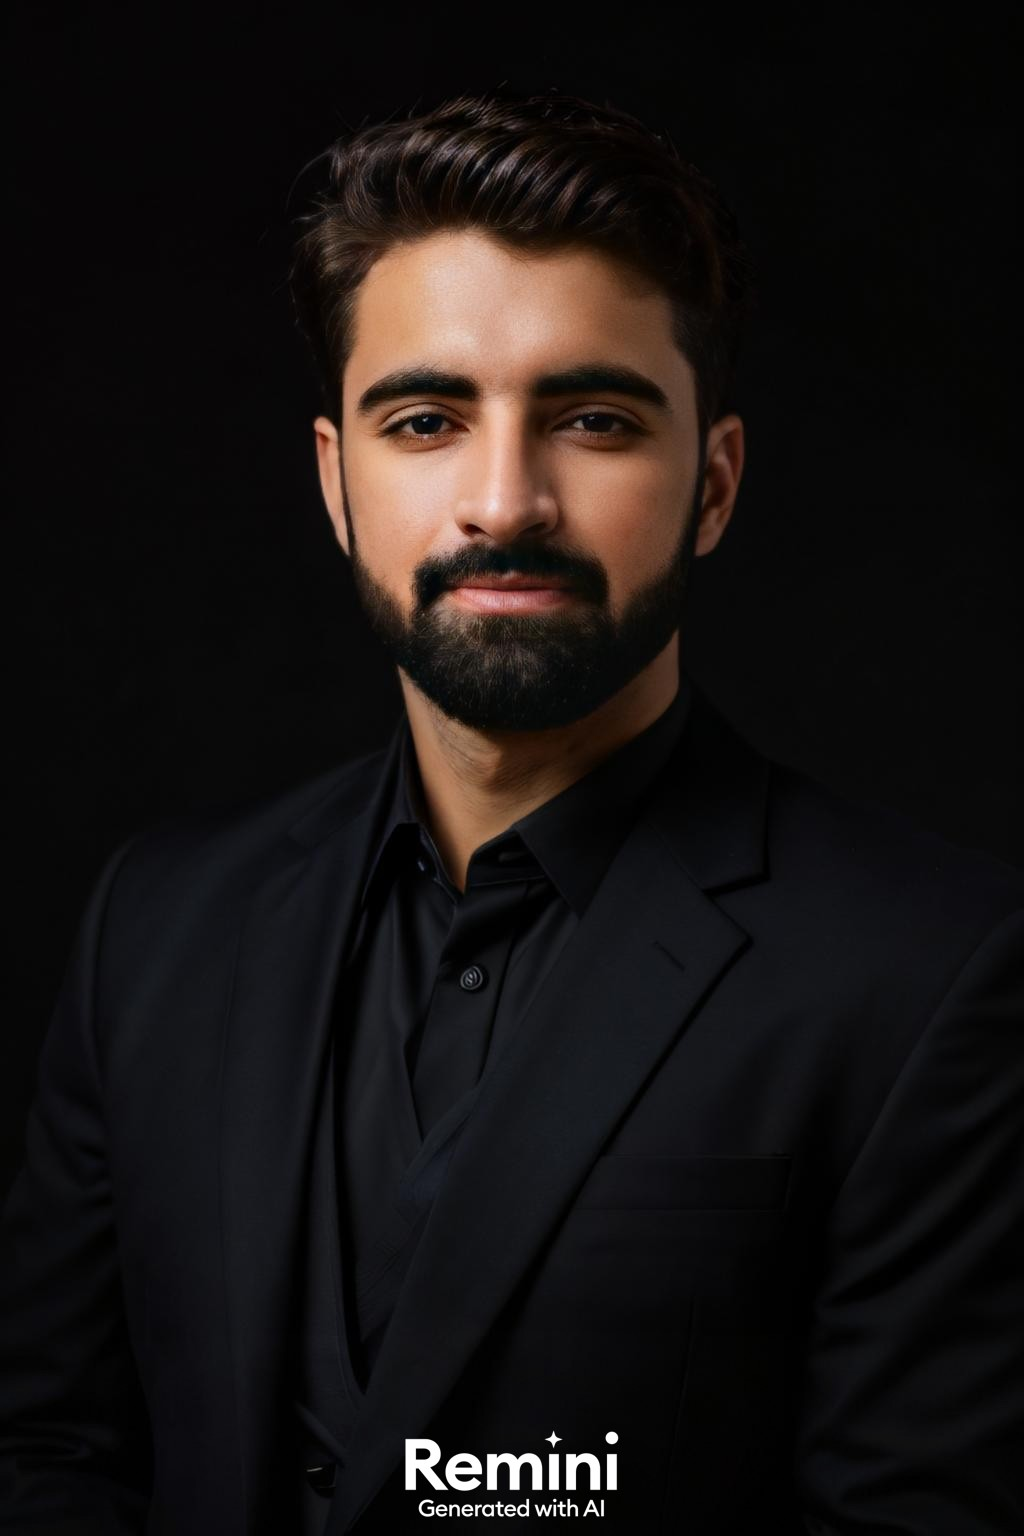
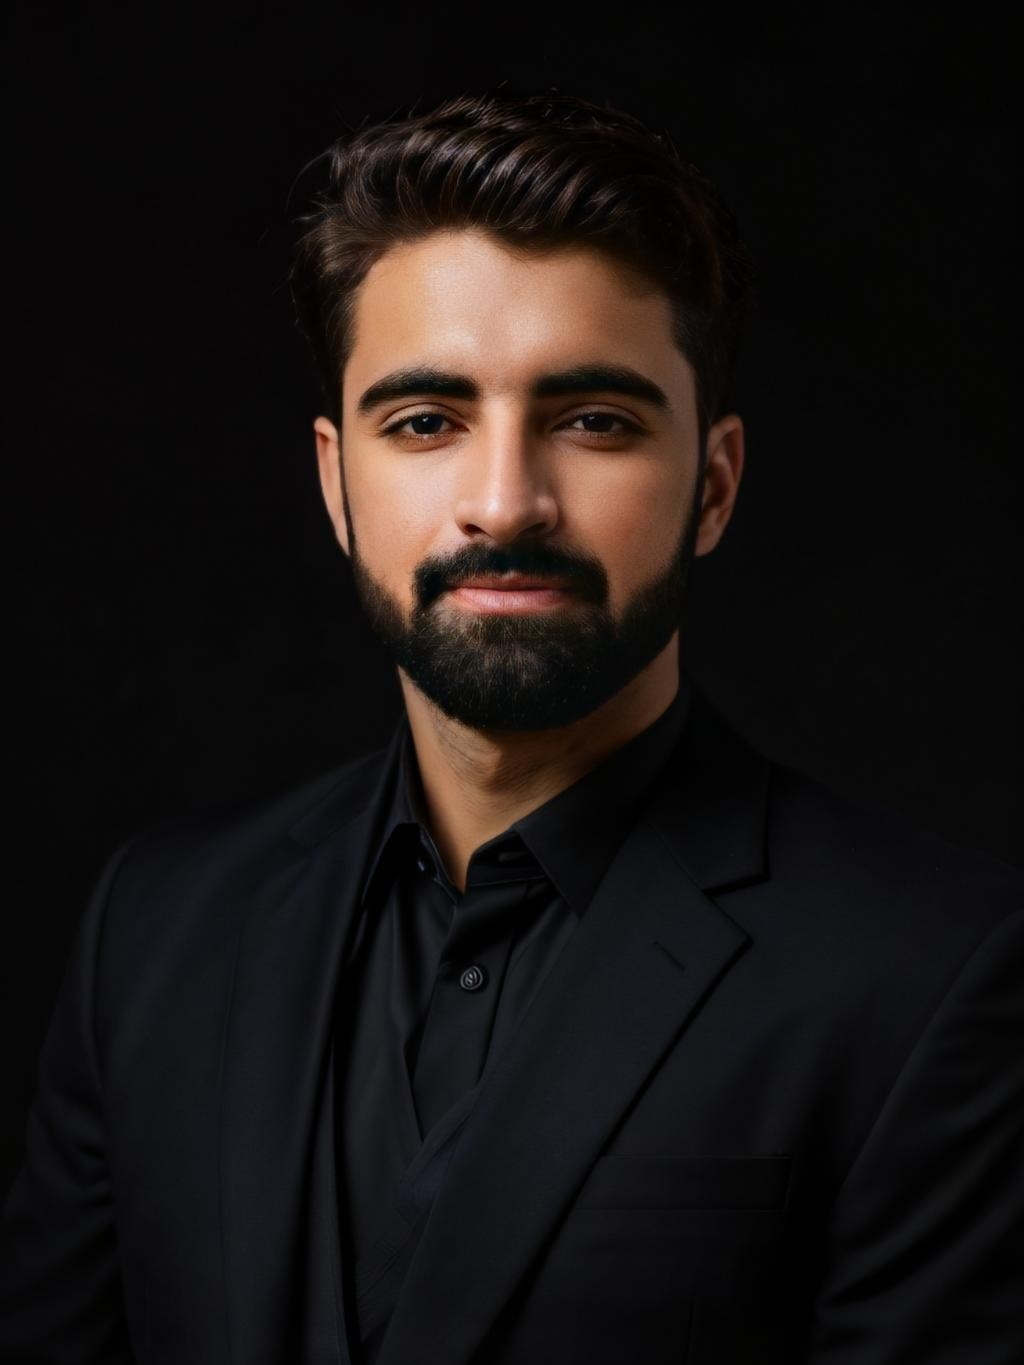
data updates

diff --git a/app/work/page.jsx b/app/work/page.jsx
@@ -79,7 +79,7 @@ const projects = [
       { name: "Node.js" },
       { name: "Express" },
       { name: "MongoDB" },
-      { name: "Material-UI" }
+      { name: "MUI" }
     ],
     image: "/assets/work/thumb5.png",  // You can replace this with the actual image URL
     live: "",
@@ -122,14 +122,14 @@ const Work = () => {
               <div className="flex items-center gap-4">
                 <Link href={project.live}>
                   <TooltipProvider delayDuration={100}>
-                    <Tooltip>
+                    {/* <Tooltip>
                       <TooltipTrigger className="w-[70px] h-[70px] rounded-full bg-white/5 flex justify-center items-center group">
                         <BsArrowUpRight className="text-wite text-3xl group-hover:text-accent"/> 
                       </TooltipTrigger>
                       <TooltipContent>
                         <p>Live project</p>
                       </TooltipContent>
-                    </Tooltip>
+                    </Tooltip> */}
                   </TooltipProvider>
                 </Link>
                 <Link href={project.github}>

diff --git a/components/Photo.jsx b/components/Photo.jsx
@@ -18,7 +18,7 @@ const Photo = () => {
          }}
         
         className="w-[298px] h-[298px] xl:w-[498px] xl:h-[498px] mix-blend-lighten absolute rounded-lg">
-            <Image src="/assets/photo.png" priority quality={100} fill alt="" className="object-contain"/>
+            <Image src="/assets/photo.jpeg" priority quality={100} fill alt="" className="object-contain"/>
         </motion.div>
 
         <motion.svg
